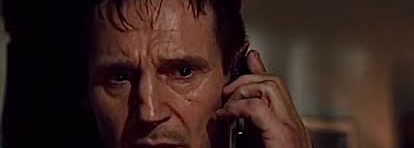
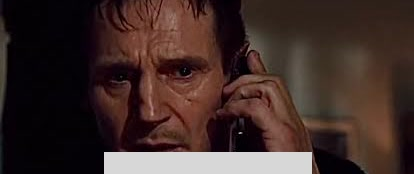
docs(recursive-skill-improvement): the hero keeps the whole frame - my crop was cutting into the face

diff --git a/docs/fundamentals/node-tools/recursive-skill-improvement/index.md b/docs/fundamentals/node-tools/recursive-skill-improvement/index.md
@@ -20,7 +20,7 @@ It exists because Lion is a living product: components gain APIs, docs gain page
 last quarter quietly stops matching the library. Improvement here means the skill is regenerated from
 its source docs and re-measured against the library, not patched by hand and hoped over.
 
-![a man holding a clamshell phone to his ear, in a close-up so tight that his shoulders are cropped at the bottom and the dark room behind him is out of focus — the frame the hero plate was trying to draw](./assets/recursive-skill-improvement-hero.jpg 'From the reference photo; a particular set of skills')
+![a man holding a clamshell phone to his ear, in a close-up so tight the frame is almost all face — the dark room behind him out of focus](./assets/recursive-skill-improvement-hero.jpg 'The reference photograph itself; the band the source watermark sat in is covered')
 
 ## The system, the task and the protocol
 
